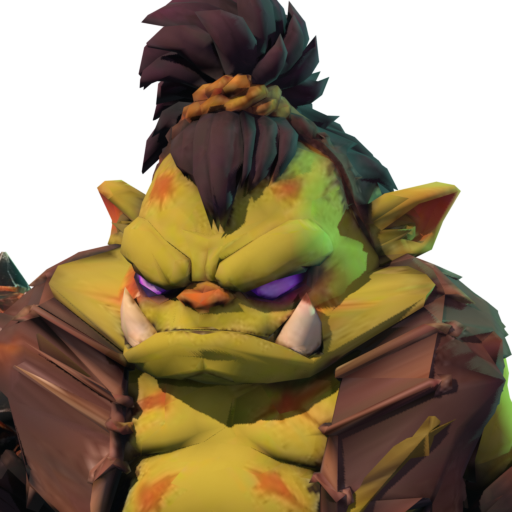
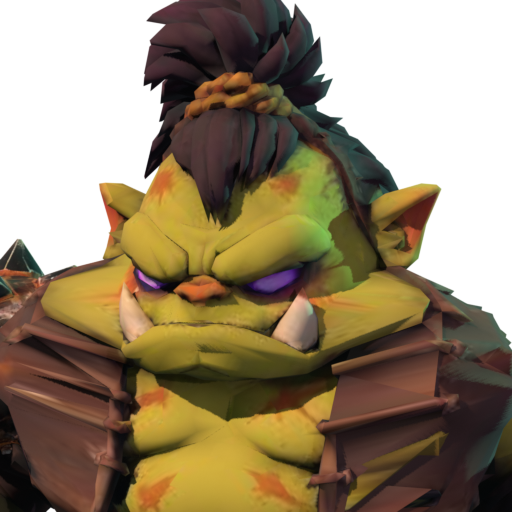
Ogre portrait from the rest pose; rig: optional bone-heat weights, stretch checker and frame renderer (Ogre mesh needs a clean retopo for good skinning)

diff --git a/Pipeline/blender/rig_unit.py b/Pipeline/blender/rig_unit.py
@@ -217,25 +217,34 @@ def seg_dist(P_, A, Bb):
     C = A[None] + t[..., None] * AB[None]
     return np.linalg.norm(P_[:, None, :] - C, axis=-1)
 
-names = BODY_BONES
-A = np.array([B[n]['head'][:] for n in names]); Bb = np.array([B[n]['tail'][:] for n in names])
-co = verts_np(body); D = seg_dist(co, A, Bb)
-ids, nisl = island_ids(body)
-RIGID = CFG.get('weights', {}).get('rigid_island_max', 0.30); POW = CFG.get('weights', {}).get('power', 3.0)
-W = np.zeros((len(co), len(names)))
-order = np.argsort(D, axis=1)[:, :2]
-for vi in range(len(co)):
-    i0, i1 = order[vi]; w0 = 1 / (D[vi, i0] + 0.01) ** POW; w1 = 1 / (D[vi, i1] + 0.01) ** POW
-    W[vi, i0] = w0 / (w0 + w1); W[vi, i1] = w1 / (w0 + w1)
-rigid_count = 0
-for i in range(nisl):
-    m = ids == i; c = co[m]; ext = (c.max(0) - c.min(0)).max()
-    if ext <= RIGID:
-        cen = c.mean(0, keepdims=True); d = seg_dist(cen, A, Bb)[0]; W[m, :] = 0; W[m, int(np.argmin(d))] = 1.0; rigid_count += 1
-log('islands', nisl, 'rigid', rigid_count, 'blended', nisl - rigid_count)
-for j, n in enumerate(names):
-    vg = body.vertex_groups.new(name=n)
-    for vi in np.nonzero(W[:, j] > 1e-3)[0]: vg.add([int(vi)], float(W[vi, j]), 'REPLACE')
+AUTO = CFG.get('weights', {}).get('method') == 'auto'      # Blender's bone-heat weights: they follow the body's volume, so an arm hanging next to the hip does not drag the waist
+if AUTO:
+    bpy.ops.object.mode_set(mode='OBJECT'); bpy.ops.object.select_all(action='DESELECT'); body.select_set(True); arm.select_set(True); bpy.context.view_layer.objects.active = arm
+    bpy.ops.object.parent_set(type='ARMATURE_AUTO')
+    log('bone-heat weights on', len(body.vertex_groups), 'groups')
+else:
+    names = BODY_BONES
+    A = np.array([B[n]['head'][:] for n in names]); Bb = np.array([B[n]['tail'][:] for n in names])
+    co = verts_np(body); D = seg_dist(co, A, Bb)
+    ids, nisl = island_ids(body)
+    RIGID = CFG.get('weights', {}).get('rigid_island_max', 0.30); POW = CFG.get('weights', {}).get('power', 3.0)
+    W = np.zeros((len(co), len(names)))
+    # weights: each vertex blends its nearest bones (default 2). Config: weights.top = how many bones may share a vertex, weights.bias = {bone: multiplier}
+    # (a multiplier above 1 makes that bone win more often: e.g. the Chest and Spine, so cloth that hangs from the shoulders stays with the torso when the arms move)
+    TOPN = int(CFG.get('weights', {}).get('top', 2)); BIAS = np.array([float(CFG.get('weights', {}).get('bias', {}).get(n, 1.0)) for n in names])
+    raw = BIAS[None, :] / (D + 0.01) ** POW; top = np.argsort(-raw, axis=1)[:, :TOPN]
+    for vi in range(len(co)):
+        w_ = raw[vi, top[vi]]; W[vi, top[vi]] = w_ / w_.sum()
+    rigid_count = 0
+    for i in range(nisl):
+        m = ids == i; c = co[m]; ext = (c.max(0) - c.min(0)).max()
+        if ext <= RIGID:
+            cen = c.mean(0, keepdims=True); d = seg_dist(cen, A, Bb)[0]; W[m, :] = 0; W[m, int(np.argmin(d))] = 1.0; rigid_count += 1
+    log('islands', nisl, 'rigid', rigid_count, 'blended', nisl - rigid_count)
+    for j, n in enumerate(names):
+        vg = body.vertex_groups.new(name=n)
+        for vi in np.nonzero(W[:, j] > 1e-3)[0]: vg.add([int(vi)], float(W[vi, j]), 'REPLACE')
+
 
 def rigid_group(o, bone_name):
     vg = o.vertex_groups.new(name=bone_name); vg.add(list(range(len(o.data.vertices))), 1.0, 'REPLACE')
@@ -259,6 +268,7 @@ if props.get('bow'):
             if wb > 1e-3: gB.add([vi], wb, 'REPLACE')
 skinned = [body] + [props[k] for k in ('weapon', 'bow', 'arrow', 'string') if props.get(k)]
 for o in skinned:
+    if AUTO and o is body: continue
     o.parent = arm; md = o.modifiers.new('Armature', 'ARMATURE'); md.object = arm
 
 # ----------------------------------------------------------------------------------------------- IK + constraints

diff --git a/Pipeline/blender/stretch_check.py b/Pipeline/blender/stretch_check.py
@@ -1,0 +1,24 @@
+# Where does a rigged mesh get stretched? Compares every edge's length in a pose with its rest length and reports the worst clusters.
+#   blender -b Unit.blend -P stretch_check.py -- Clip:frame [Clip:frame ...]
+import bpy, sys, numpy as np
+a = sys.argv[sys.argv.index('--') + 1:]
+sc = bpy.context.scene; arm = next(o for o in sc.objects if o.type == 'ARMATURE'); arm.animation_data_create()
+body = next(o for o in sc.objects if o.type == 'MESH' and o.name.endswith('_Body'))
+E = np.array([[e.vertices[0], e.vertices[1]] for e in body.data.edges])
+def verts():
+    dg = bpy.context.evaluated_depsgraph_get(); ev = body.evaluated_get(dg); m = ev.to_mesh()
+    P = np.array([body.matrix_world @ v.co for v in m.vertices]); ev.to_mesh_clear(); return P
+arm.animation_data.action = None
+for pb in arm.pose.bones: pb.location = (0, 0, 0); pb.rotation_quaternion = (1, 0, 0, 0); pb.scale = (1, 1, 1)
+sc.frame_set(0); bpy.context.view_layer.update(); R = verts()
+rest = np.linalg.norm(R[E[:, 0]] - R[E[:, 1]], axis=1) + 1e-6
+names = [g.name for g in body.vertex_groups]
+def dom(vi):
+    ws = sorted(((g.weight, names[g.group]) for g in body.data.vertices[vi].groups), reverse=True)[:3]; return ' '.join('%s%.2f' % (n.replace('UpperArm', 'UA').replace('LowerArm', 'LA'), w) for w, n in ws)
+for spec in a:
+    name, fr = spec.split(':'); arm.animation_data.action = bpy.data.actions[name]; sc.frame_set(int(fr)); bpy.context.view_layer.update()
+    Pp = verts(); pose = np.linalg.norm(Pp[E[:, 0]] - Pp[E[:, 1]], axis=1); ratio = pose / rest
+    bad = np.where((ratio > 2.2) & (pose > 0.03))[0]
+    print('[stretch]', spec, 'edges over 2.2x:', len(bad), 'of', len(E), ' worst ratio %.1f' % ratio.max())
+    for k in bad[np.argsort(-pose[bad])][:6]:
+        v0, v1 = E[k]; print('   edge %.2f m (rest %.3f)  at rest (%.2f %.2f %.2f) | %s || %s' % (pose[k], rest[k], *R[v0], dom(v0), dom(v1)))

diff --git a/Pipeline/blender/render_portrait.py b/Pipeline/blender/render_portrait.py
@@ -1,5 +1,5 @@
 # Render a card portrait (transparent PNG) of a rigged Soul from its game GLB.
-#   blender -b -P render_portrait.py -- model.glb out.png [action] [frame] [yaw_degrees] [full|head]
+#   blender -b -P render_portrait.py -- model.glb out.png [action|REST] [frame] [yaw_degrees] [full|head]
 import bpy, sys, math
 from mathutils import Vector
 a = sys.argv[sys.argv.index('--') + 1:]
@@ -12,7 +12,7 @@ sc = bpy.context.scene
 for o in list(sc.objects):
     if o.name.startswith('Icosphere'): bpy.data.objects.remove(o, do_unlink=True)          # the blob-shadow helper, not part of the character
 arm = next(o for o in sc.objects if o.type == 'ARMATURE')
-arm.animation_data_create(); arm.animation_data.action = bpy.data.actions[action]
+arm.animation_data_create(); arm.animation_data.action = None if action == 'REST' else bpy.data.actions[action]     # REST = the unposed model (no stretching from the rig)
 sc.frame_set(frame); bpy.context.view_layer.update()
 dg = bpy.context.evaluated_depsgraph_get(); lo = Vector((1e9,) * 3); hi = Vector((-1e9,) * 3)
 for o in sc.objects:
